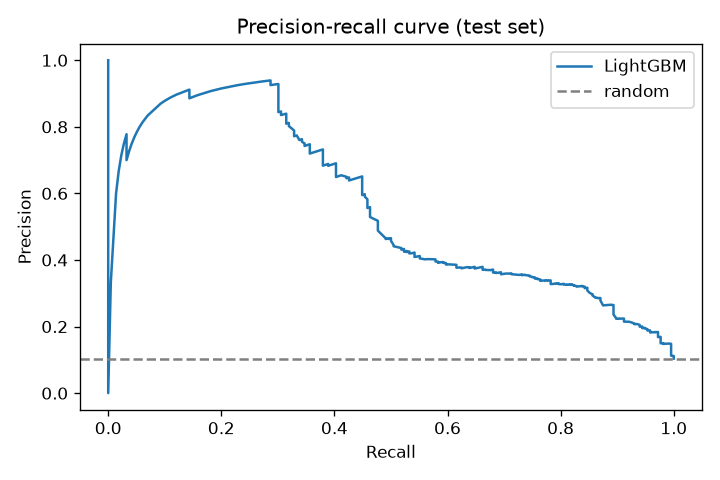
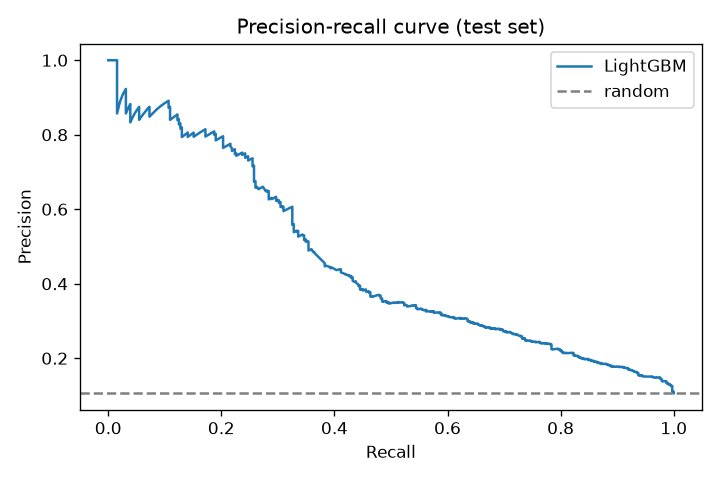
Add 7-repo results

diff --git a/src/ingest/load_more.py b/src/ingest/load_more.py
@@ -1,0 +1,45 @@
+from src.ingest.github_client import runs_in_window
+from src.ingest.load_builds import MONTHS, connect, month_window, parse_time, save_repo
+
+NEW_REPOS = ["django/django", "psf/requests", "fastapi/fastapi"]
+
+
+def main():
+    conn = connect()
+    cur = conn.cursor()
+    for repo in NEW_REPOS:
+        repo_id = save_repo(cur, repo)
+        conn.commit()
+        for year, month in MONTHS:
+            start, end = month_window(year, month)
+            n = 0
+            for run in runs_in_window(repo, start, end):
+                if run["conclusion"] not in ("success", "failure"):
+                    continue
+                started = parse_time(run.get("run_started_at"))
+                updated = parse_time(run.get("updated_at"))
+                if started is None or updated is None:
+                    continue
+                cur.execute(
+                    """
+                    INSERT INTO builds (build_id, repo_id, commit_sha, branch, event,
+                        created_at, started_at, updated_at, duration_s, conclusion,
+                        run_attempt, author, workflow_name)
+                    VALUES (%s,%s,%s,%s,%s,%s,%s,%s,%s,%s,%s,%s,%s)
+                    ON CONFLICT (build_id) DO NOTHING
+                    """,
+                    (run["id"], repo_id, run["head_sha"], run["head_branch"], run["event"],
+                     parse_time(run["created_at"]), started, updated,
+                     (updated - started).total_seconds(), run["conclusion"],
+                     run.get("run_attempt"), (run.get("actor") or {}).get("login"),
+                     run.get("name")),
+                )
+                n += 1
+            conn.commit()
+            print(f"{repo} {start[:7]}: {n} builds", flush=True)
+    cur.close()
+    conn.close()
+
+
+if __name__ == "__main__":
+    main()

diff --git a/README.md b/README.md
@@ -57,3 +57,8 @@ flowchart LR
   F --> K
   K --> L[Render]
 ```
+
+## Seven repos (django, requests, fastapi added)
+- Test results on all 7 repos: PR-AUC 0.456, precision 0.573, recall 0.326, F1 0.415 (threshold 0.30 chosen on validation). Class weights hurt: PR-AUC 0.358.
+- PR-AUC by repo: requests 0.929, numpy 0.867, fastapi 0.264, pandas 0.224, flask 0.220, django 0.110, scikit-learn 0.080.
+- The model is strong on numpy and requests and weak on the other repos. The 0.555 result above is the 4-repo model, which is the one deployed.
